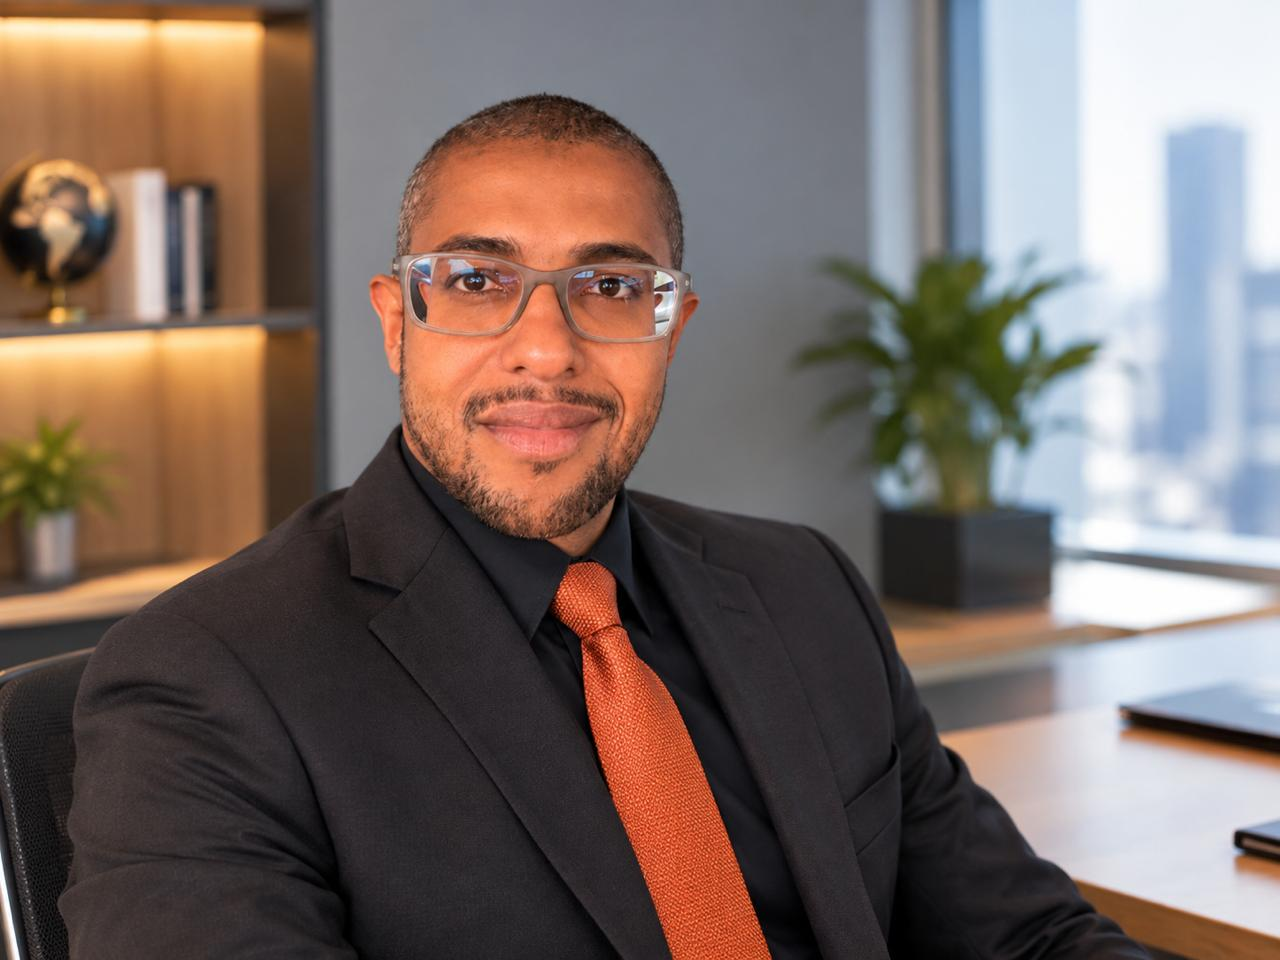
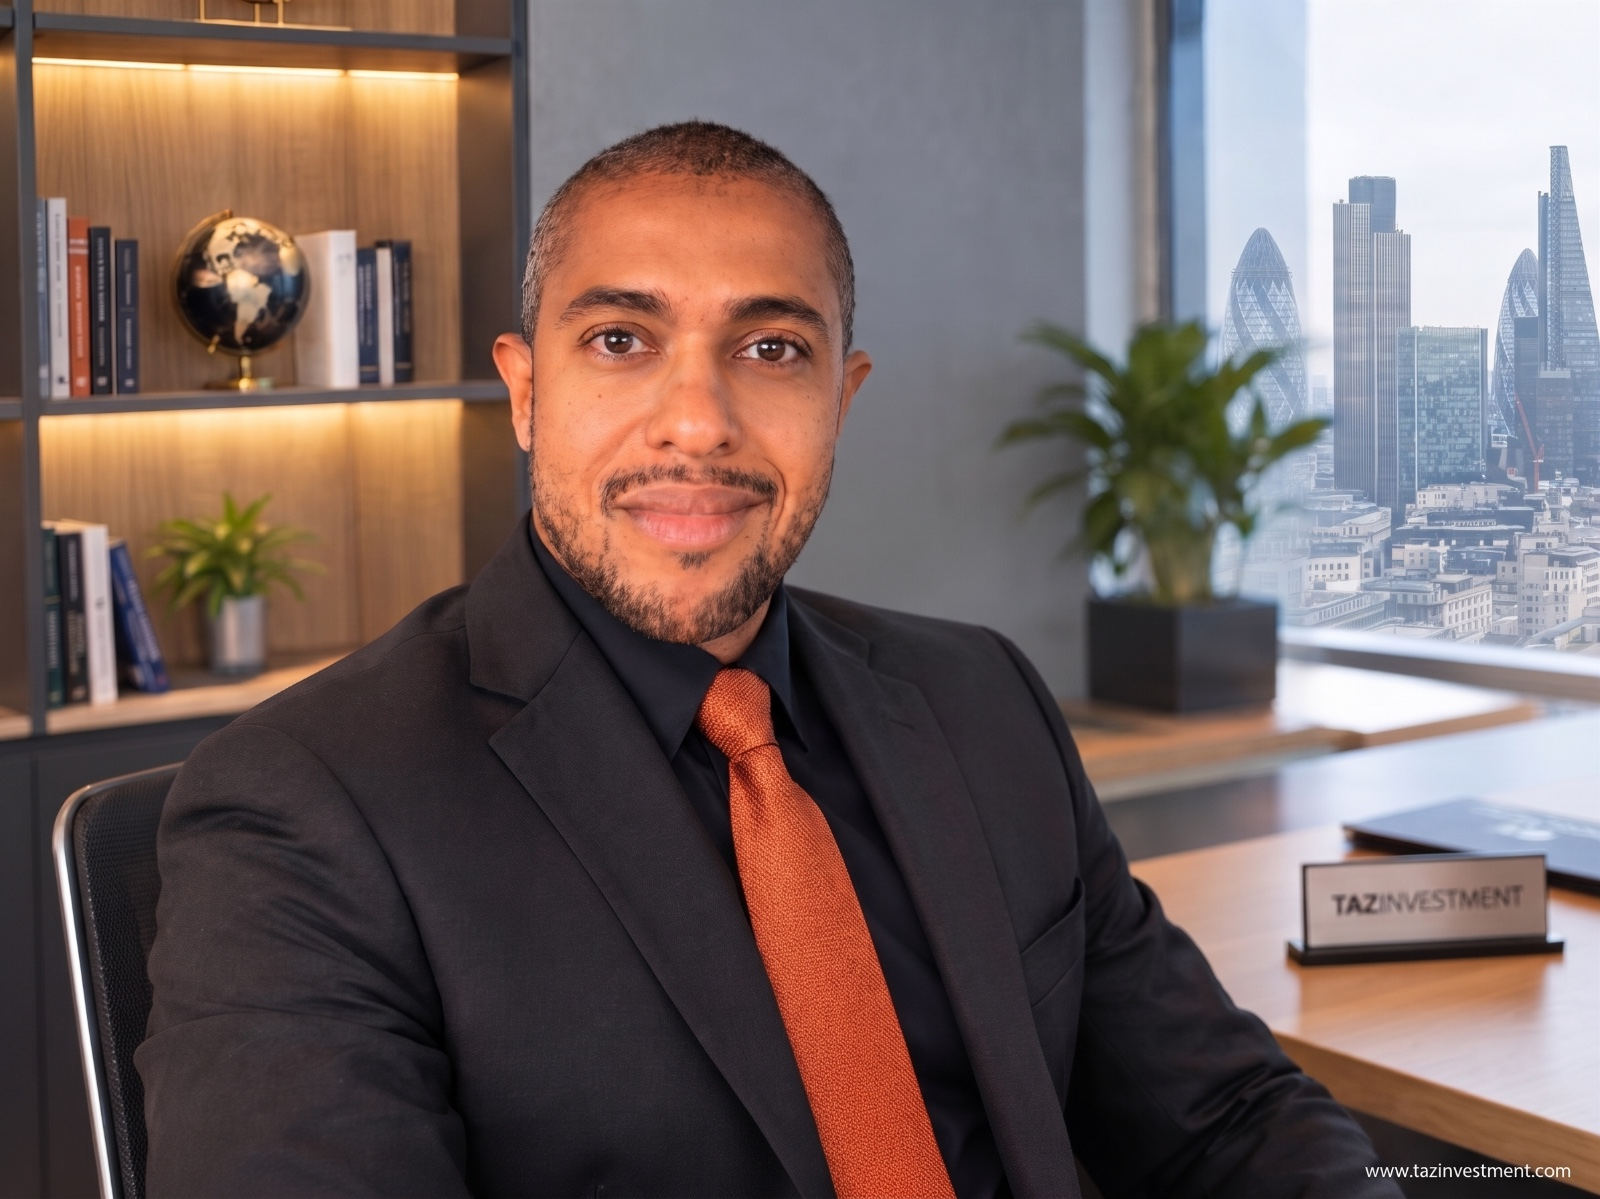
updated firm images

diff --git a/lib/aboutData.ts b/lib/aboutData.ts
@@ -58,9 +58,9 @@ export const TEAM = [
   {
     id: "ramadan",
     name: "Ramadan Ibrahim",
-    role: "Manager Operations, Saudi Arabia",
+    role: "Manager Operations and Chairman office",
     location: "Saudi Arabia",
-    image: null,
+    image: "/Ramadan_Ibrahim.jpg",
     bio: "More than two decades in International Trade as a Purchasing Manager — a career that began in trade and expanded into start-ups, construction, and the energy sector. He is known for strategic planning and for an exceptional ability to read future trade trends and make tactical decisions that generate optimum value. That talent for spotting opportunity before the market prices it in — and acting on it with precision — is exactly the kind of instinct TIC brings to its investment process. He is the firm's anchor for institutional and industrial relationships.",
   },
 ] as const;
